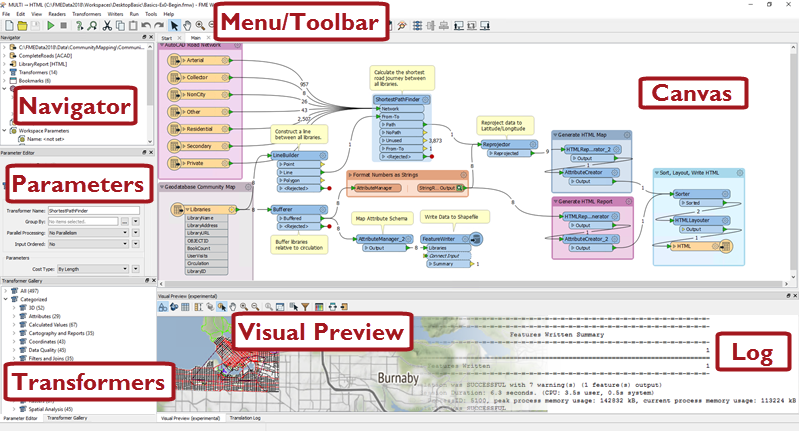
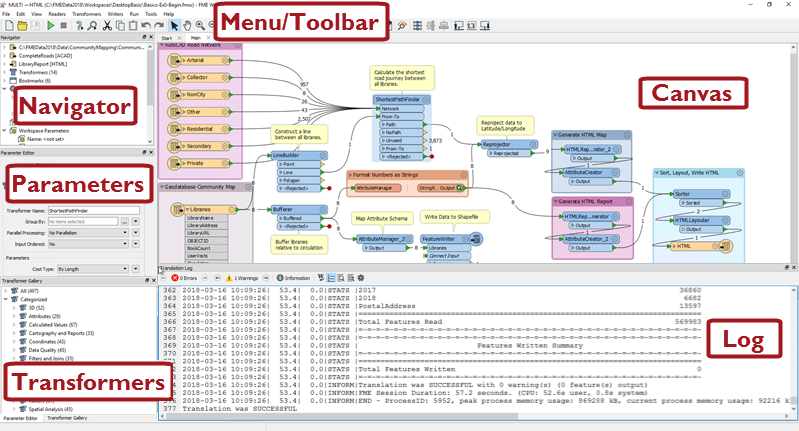
2018 Chapter 1 Visual Preview
Comment out or remove references to Visual Preview

Changed region(s): [[0.1802, 0.6032, 1.0, 0.9954]]

diff --git a/DesktopBasic1Basics/1.03.IntroductionToWorkbench.md b/DesktopBasic1Basics/1.03.IntroductionToWorkbench.md
@@ -40,14 +40,15 @@ The translation log reports on translations and other actions. Information inclu
 ![](./Images/Img1.011.WorkbenchLog.png)
 
 
-### Data Inspection (Visual Preview) Window ###
+<!--### Data Inspection (Visual Preview) Window ###
 The Data Inspection window allows visual inspection of data without having to switch to the FME Data Inspection application:
 
 ![](./Images/Img1.012.VisualPreview.png)
-<br><span style="font-style:italic;font-size:x-small">Map tiles by <a href="http://stamen.com">Stamen Design</a>, under <a href="http://creativecommons.org/licenses/by/3.0">CC-BY-3.0</a>. Data by <a href="http://openstreetmap.org">OpenStreetMap</a>, under <a href="http://creativecommons.org/licenses/by-sa/3.0">CC-BY-SA</a>.
+<br><span style="font-style:italic;font-size:x-small">Map tiles by <a href="http://stamen.com">Stamen Design</a>, under <a href="http://creativecommons.org/licenses/by/3.0">CC-BY-3.0</a>. Data by <a href="http://openstreetmap.org">OpenStreetMap</a>, under <a href="http://creativecommons.org/licenses/by-sa/3.0">CC-BY-SA</a>.-->
 
 <!--New Section--> 
 
+<!--
 <table style="border-spacing: 0px">
 <tr>
 <td style="vertical-align:middle;background-color:darkorange;border: 2px solid darkorange">
@@ -64,7 +65,7 @@ The Data Inspection window is new for FME2018. As we shall see, it is integrated
 </td>
 </tr>
 </table>
-
+-->
 
 ### Parameter Editor Window ###
 The Parameter Editor window is for editing parameters for objects on the canvas window:
